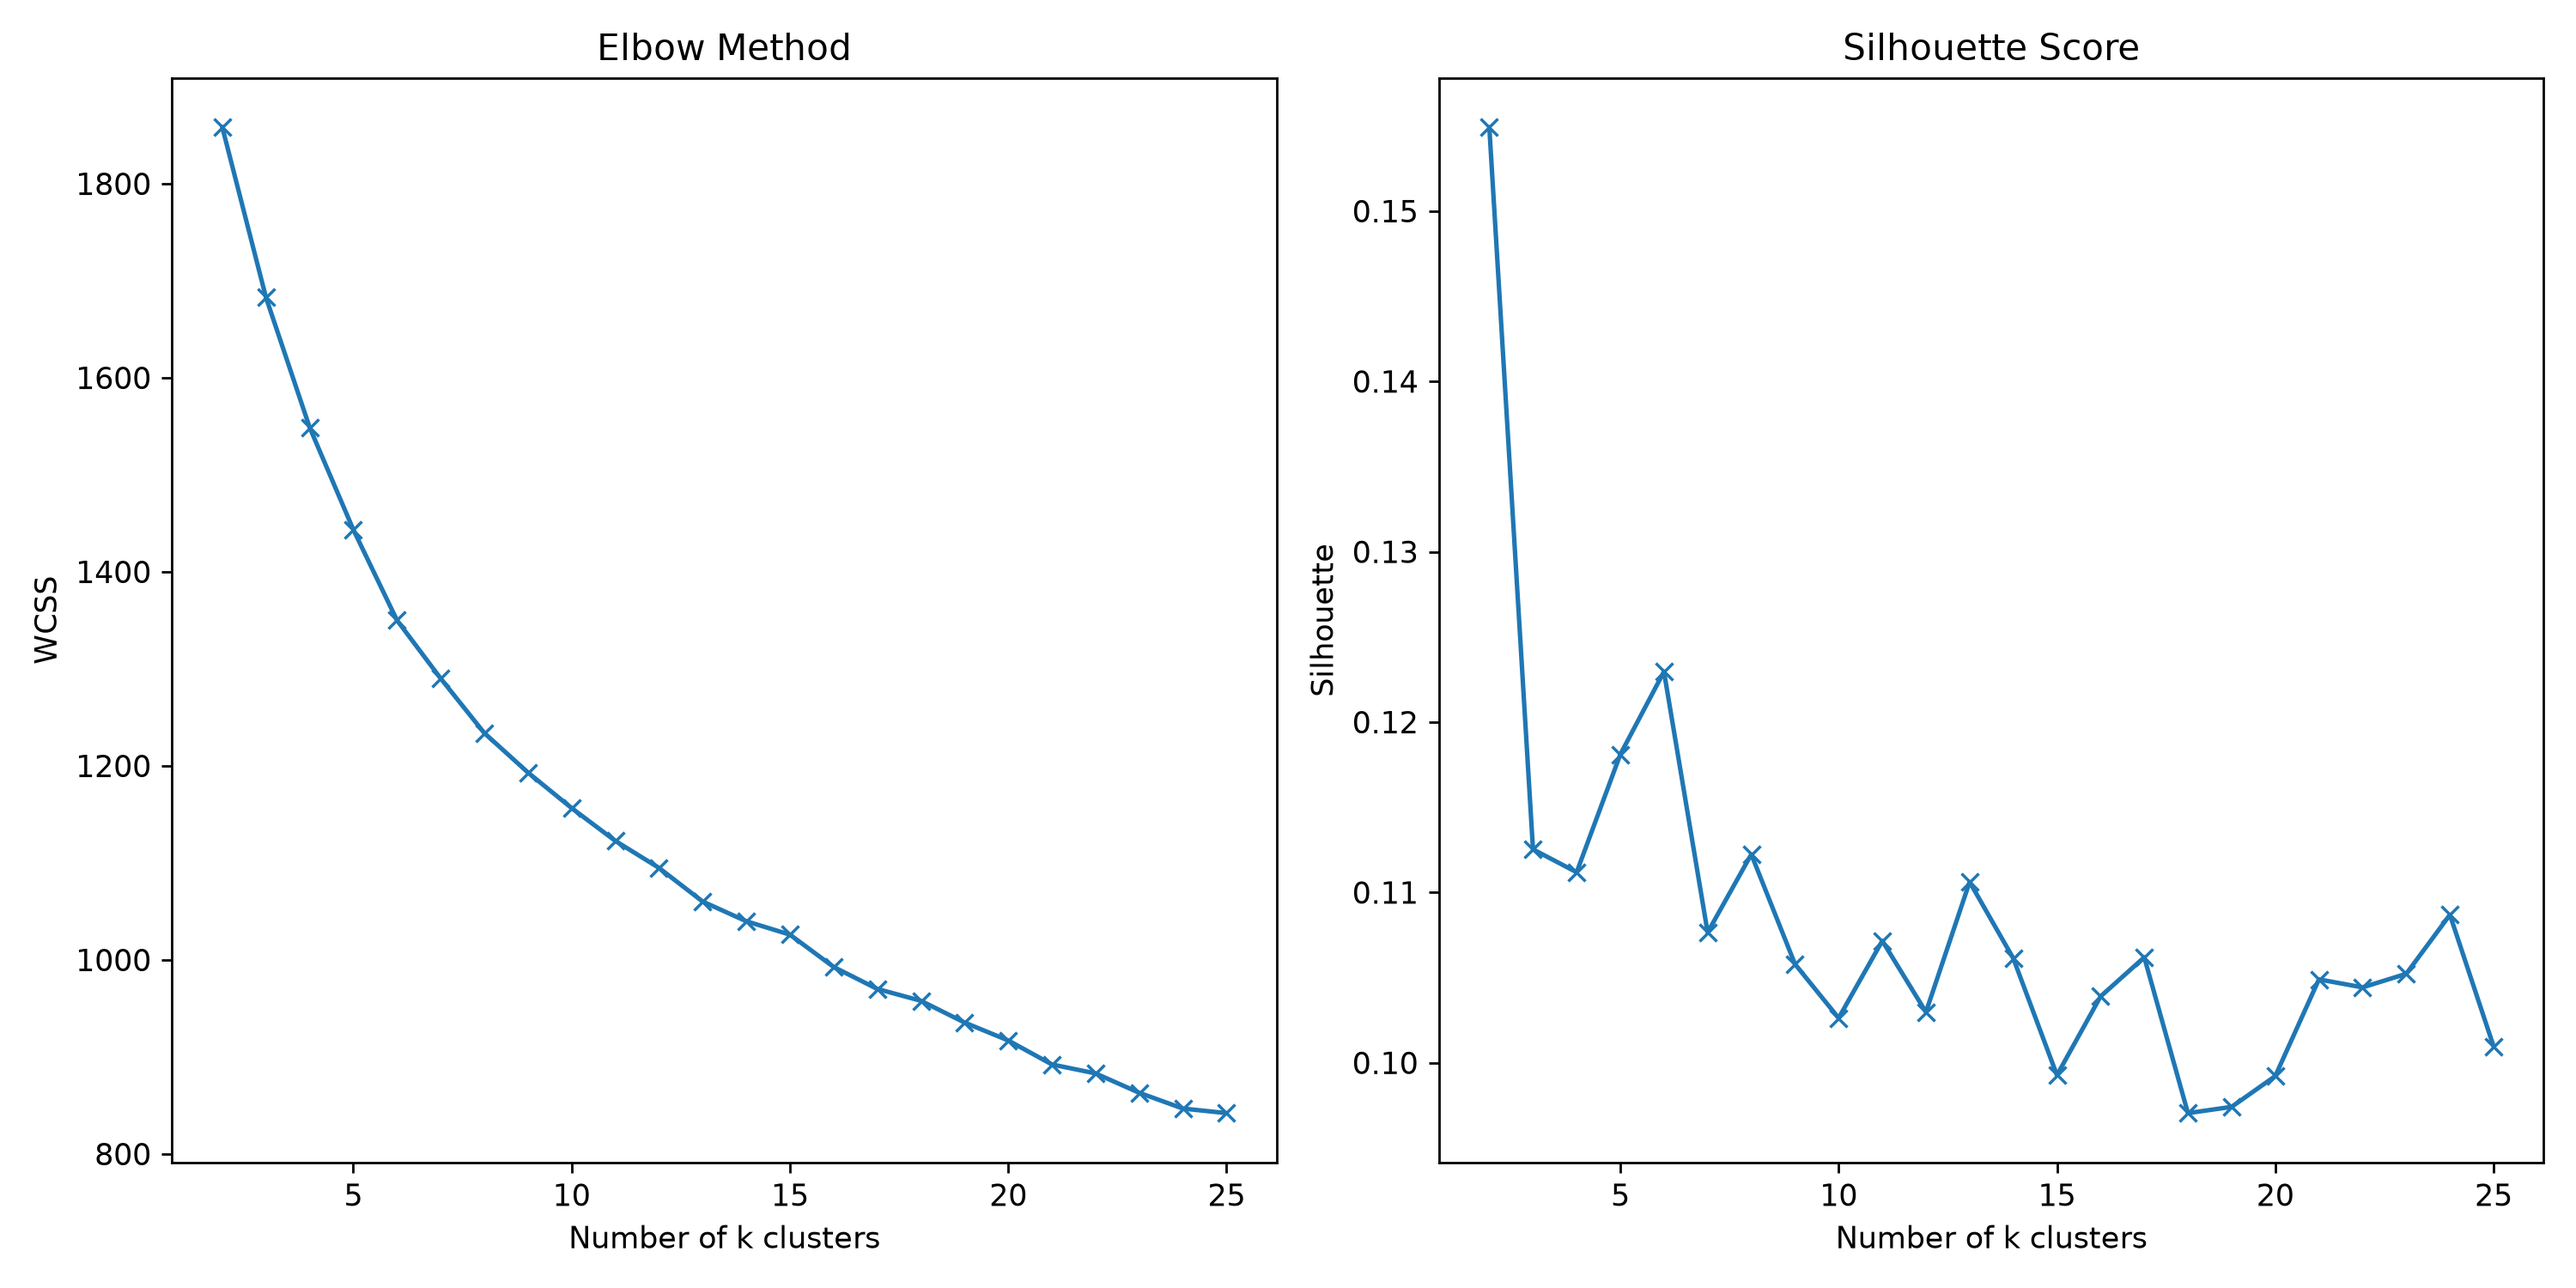
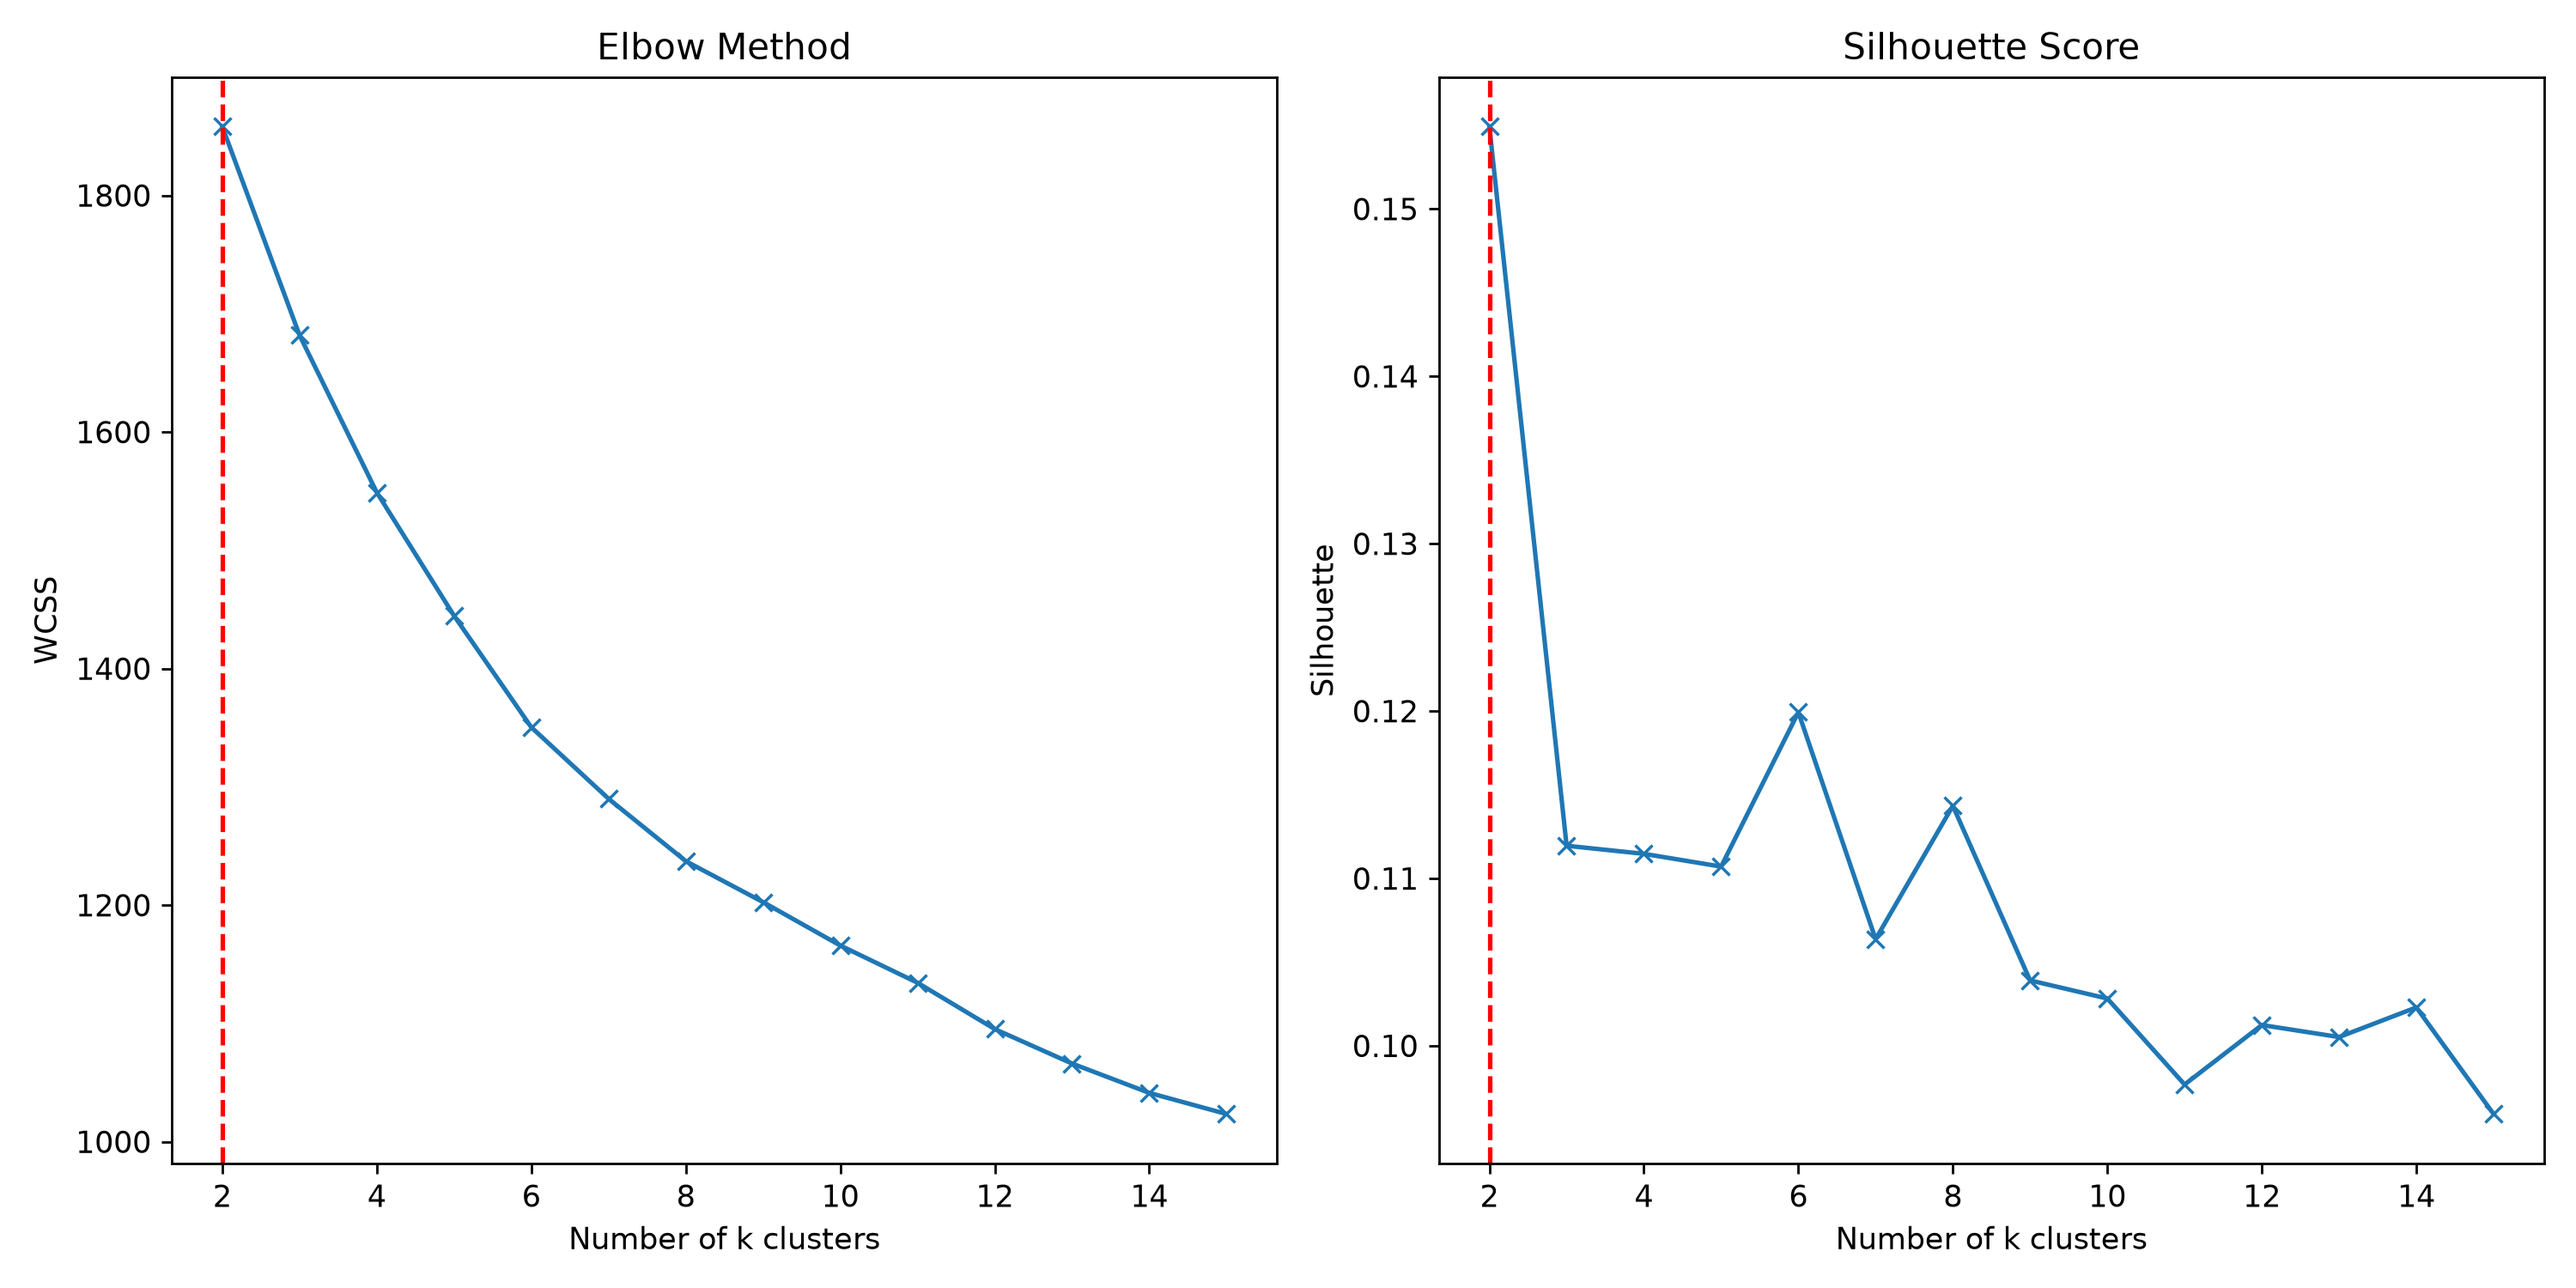
Add: added final adjustments to kmeans

diff --git a/main.py b/main.py
@@ -15,22 +15,35 @@ def findBestKValue(scaledDf):
     # references added to report
 
     # silhouette requires a minimum of 2 clusters so range starts at 2
-    kValues = range(2, 26)
+    # keep range rather low as it needs to be clinically feasible and anthing over 15 is too high
+    kValues = range(2, 16)
     wcss = []
     silhouettes = []
 
     for k in kValues:
-        
-        kmeans = KMeans(n_clusters=k, random_state=56, n_init=25)
+
+        # random_state fixes the random starting centres so results are coonsistent
+        # n_init=25 means k-means runs 25 times with different starts but keeps best results
+        kmeans = KMeans(n_clusters=k, random_state=42, n_init=25)
         kmeans.fit(scaledDf)
 
         # scikit learn uses inertia as a means of wcss
         wcss.append(kmeans.inertia_)
 
-        # labels is the predicted label for each cluster
+        # labels is the cluster number assigned to the participant
         silhouettes.append(silhouette_score(scaledDf, kmeans.labels_))
 
         print(f"k={k}: WCSS={kmeans.inertia_:.2f}, silhouette={silhouettes[-1]:.3f}")
+
+    # printing the best values for k in both wcss and silhouttes
+    bestSilhouettesIdx = silhouettes.index(max(silhouettes))
+    bestWcssIdx = wcss.index(max(wcss))
+
+    bestSilhouetteK = kValues[bestSilhouettesIdx]
+    bestWcssK = kValues[bestWcssIdx]
+
+    print(f"Best K value for Silhouettes: {bestSilhouetteK}")
+    print(f"Best K value for WCSS: {bestWcssK}")
 
     # Plotting the scores to a side by side graph
     fig, (ax1, ax2) = plt.subplots(1, 2, figsize=(12, 6))
@@ -39,15 +52,20 @@ def findBestKValue(scaledDf):
     ax1.set_xlabel("Number of k clusters")
     ax1.set_ylabel("WCSS")
     ax1.set_title("Elbow Method")
+    ax1.axvline(bestWcssK, color="red", linestyle="--")
 
     ax2.plot(kValues, silhouettes, marker="x")
     ax2.set_xlabel("Number of k clusters")
     ax2.set_ylabel("Silhouette")
     ax2.set_title("Silhouette Score")
+    ax2.axvline(bestSilhouetteK, color="red", linestyle="--")
 
     plt.tight_layout()
     plt.savefig(figurePath / "K_Values.png", dpi=250)
     plt.show()
+
+    # as we have shown above the best k value from both means of finding the best k is 2 so I will return bestSilhouetteK but it does not matter as both values are samne
+    return bestSilhouetteK
 
 def KMeansClustering():
     return
@@ -71,4 +89,5 @@ def profileClusters():
 if __name__ == "__main__":
     # call the return clean data function within preprocess each time this file is run so we know the data is accurate
     unscaledDf, scaledDf = returnCleanData()
-    findBestKValue(scaledDf)
+    kValue = findBestKValue(scaledDf)
+    
